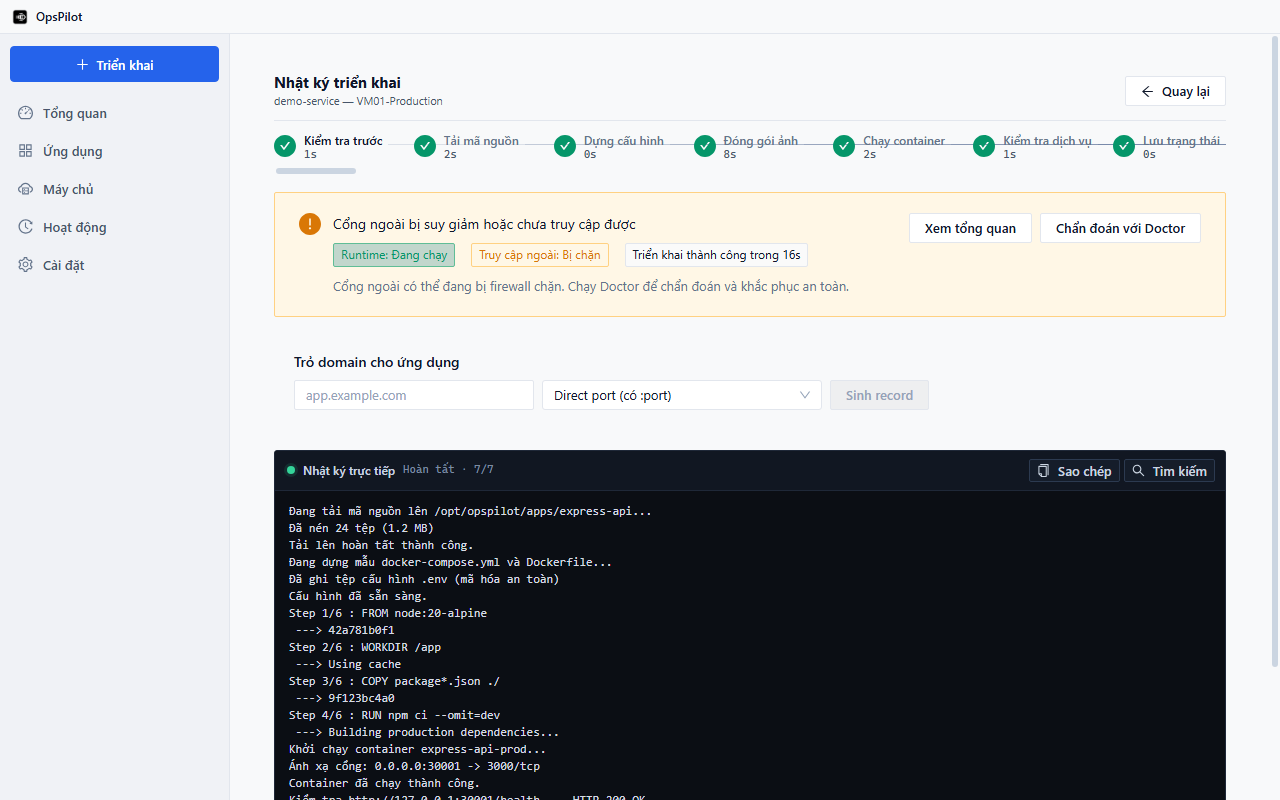
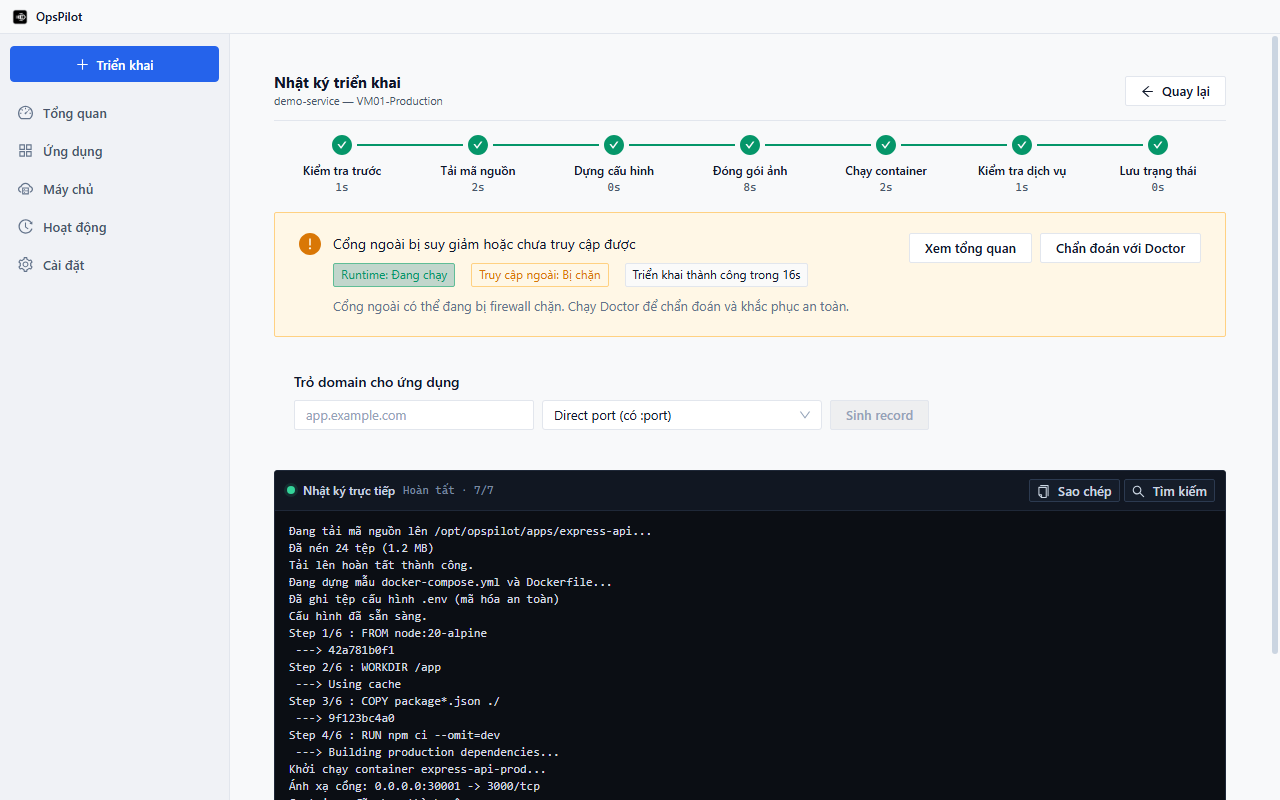
fix(ui): bo cuc thanh tien trinh 7 buoc doc ro khong cat chu UI-1h

diff --git a/app/src/renderer/src/pages/DeployPage.tsx b/app/src/renderer/src/pages/DeployPage.tsx
@@ -1555,30 +1555,6 @@ function DeployLogView({
     setDomainMessage(strings.deploy.domain.currentStatus(result.data.message, result.data.status))
   }
 
-  const stepItems = SEVEN_STEPS.map((step) => {
-    const state = run.steps[step]
-    const icon =
-      state.status === 'done' ? (
-        <CheckCircleFilled className="step-icon-ok" />
-      ) : state.status === 'running' ? (
-        <LoadingOutlined />
-      ) : state.status === 'failed' ? (
-        <CloseCircleFilled className="step-icon-fail" />
-      ) : undefined
-    const stepLabel = strings.deploy.log.steps?.[step] ?? step
-    return {
-      title: (
-        <div className="deploy-step-cell">
-          <span className="deploy-step-title">{stepLabel}</span>
-          {state.status === 'done' && (
-            <span className="deploy-step-duration">{formatDuration(state.durationMs)}</span>
-          )}
-        </div>
-      ),
-      icon
-    }
-  })
-
   return (
     <section className="page-panel">
       <PageHeader
@@ -1600,7 +1576,62 @@ function DeployLogView({
         }
       />
 
-      <Steps className="deploy-log-steps" size="small" responsive={false} items={stepItems} />
+      <div className="deploy-steps-container" role="list" aria-label={strings.deploy.log.title}>
+        {SEVEN_STEPS.map((step, idx) => {
+          const state = run.steps[step]
+          const stepLabel = strings.deploy.log.steps?.[step] ?? step
+          const isDone = state.status === 'done'
+          const isRunning = state.status === 'running'
+          const isFailed = state.status === 'failed'
+          const isFirst = idx === 0
+          const isLast = idx === SEVEN_STEPS.length - 1
+
+          const lineBeforeActive = isDone || isRunning || isFailed
+          const lineAfterActive = isDone
+
+          return (
+            <div
+              key={step}
+              className={`deploy-step-col deploy-step-${state.status}`}
+              role="listitem"
+            >
+              <div className="deploy-step-track">
+                {!isFirst && (
+                  <div
+                    className={`deploy-step-line deploy-step-line-prev ${
+                      lineBeforeActive ? 'deploy-step-line-active' : ''
+                    }`}
+                  />
+                )}
+                <div className="deploy-step-marker">
+                  {isDone ? (
+                    <CheckCircleFilled className="deploy-step-icon deploy-step-icon-done" />
+                  ) : isRunning ? (
+                    <LoadingOutlined className="deploy-step-icon deploy-step-icon-running" />
+                  ) : isFailed ? (
+                    <CloseCircleFilled className="deploy-step-icon deploy-step-icon-failed" />
+                  ) : (
+                    <span className="deploy-step-badge">{idx + 1}</span>
+                  )}
+                </div>
+                {!isLast && (
+                  <div
+                    className={`deploy-step-line deploy-step-line-next ${
+                      lineAfterActive ? 'deploy-step-line-active' : ''
+                    }`}
+                  />
+                )}
+              </div>
+              <div className="deploy-step-meta">
+                <span className="deploy-step-label">{stepLabel}</span>
+                {isDone && state.durationMs !== undefined && (
+                  <span className="deploy-step-time">{formatDuration(state.durationMs)}</span>
+                )}
+              </div>
+            </div>
+          )
+        })}
+      </div>
 
       {finished?.status === 'running' && (
         <Alert

diff --git a/app/src/renderer/src/assets/main.css b/app/src/renderer/src/assets/main.css
@@ -1274,49 +1274,150 @@
   padding-left: 20px;
 }
 
-.deploy-log-steps {
-  margin-block: 8px 16px;
-}
+/* ── 7.5. Deploy progress 7 steps bar ────────────────────────────────────── */
 
-.deploy-log-steps .ant-steps-item {
+.deploy-steps-container {
+  display: flex;
+  width: 100%;
+  margin-block: 8px 18px;
+  padding: 0;
+  align-items: flex-start;
+  user-select: none;
   overflow: visible;
 }
 
-.deploy-log-steps .ant-steps-item-container {
+.deploy-step-col {
+  flex: 1 1 0%;
+  min-width: 0;
+  display: flex;
+  flex-direction: column;
+  align-items: center;
+  position: relative;
+}
+
+.deploy-step-track {
+  width: 100%;
+  height: 24px;
   display: flex;
   align-items: center;
+  justify-content: center;
+  position: relative;
 }
 
-.deploy-log-steps .ant-steps-item-content {
-  min-width: 0;
-  vertical-align: middle;
+.deploy-step-line {
+  position: absolute;
+  top: 50%;
+  height: 2px;
+  transform: translateY(-50%);
+  background: var(--border);
+  transition: background 0.25s ease;
 }
 
-.deploy-log-steps .ant-steps-item-title {
-  padding-inline-end: 6px !important;
-  line-height: 1.2 !important;
-  overflow: visible !important;
+.deploy-step-line-prev {
+  left: 0;
+  right: 50%;
+  margin-right: 15px;
 }
 
-.deploy-step-cell {
-  display: inline-flex;
+.deploy-step-line-next {
+  left: 50%;
+  right: 0;
+  margin-left: 15px;
+}
+
+.deploy-step-line-active {
+  background: var(--success);
+}
+
+.deploy-step-marker {
+  width: 24px;
+  height: 24px;
+  border-radius: 50%;
+  display: flex;
+  align-items: center;
+  justify-content: center;
+  position: relative;
+  z-index: 2;
+  flex-shrink: 0;
+  background: var(--content-bg);
+}
+
+.deploy-step-badge {
+  width: 20px;
+  height: 20px;
+  border-radius: 50%;
+  border: 1.5px solid var(--border);
+  color: var(--text-muted);
+  font-size: 11px;
+  font-weight: 600;
+  display: flex;
+  align-items: center;
+  justify-content: center;
+  background: var(--content-bg);
+  line-height: 1;
+}
+
+.deploy-step-icon {
+  font-size: 20px;
+  line-height: 1;
+}
+
+.deploy-step-icon-done {
+  color: var(--success);
+}
+
+.deploy-step-icon-running {
+  color: var(--primary);
+  font-size: 18px;
+}
+
+.deploy-step-icon-failed {
+  color: var(--danger);
+}
+
+.deploy-step-meta {
+  margin-top: 6px;
+  display: flex;
   flex-direction: column;
-  vertical-align: middle;
-  line-height: 1.2;
+  align-items: center;
+  text-align: center;
+  width: 100%;
+  padding-inline: 2px;
+  box-sizing: border-box;
 }
 
-.deploy-step-title {
+.deploy-step-label {
   font-size: 12px;
+  line-height: 1.3;
   font-weight: 500;
+  color: var(--text-primary);
+  text-align: center;
   white-space: nowrap;
 }
 
-.deploy-step-duration {
+.deploy-step-pending .deploy-step-label {
+  color: var(--text-muted);
+  font-weight: 400;
+}
+
+.deploy-step-running .deploy-step-label {
+  color: var(--primary);
+  font-weight: 600;
+}
+
+.deploy-step-failed .deploy-step-label {
+  color: var(--danger);
+  font-weight: 600;
+}
+
+.deploy-step-time {
   font-size: 11px;
-  color: var(--text-secondary);
   font-family: var(--font-mono, monospace);
+  color: var(--text-secondary);
   line-height: 1.2;
-  margin-top: 1px;
+  margin-top: 2px;
+  text-align: center;
+  white-space: nowrap;
 }
 
 /* ── 8. Terminal deploy/migrate ──────────────────────────────────────────── */
